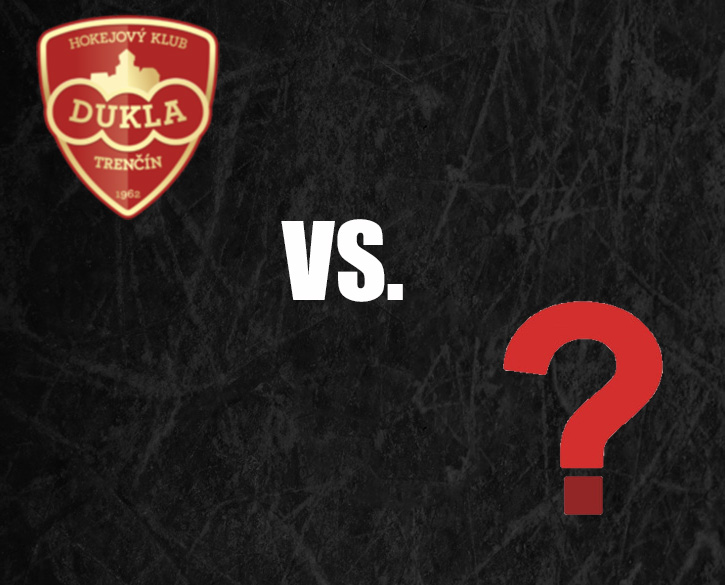
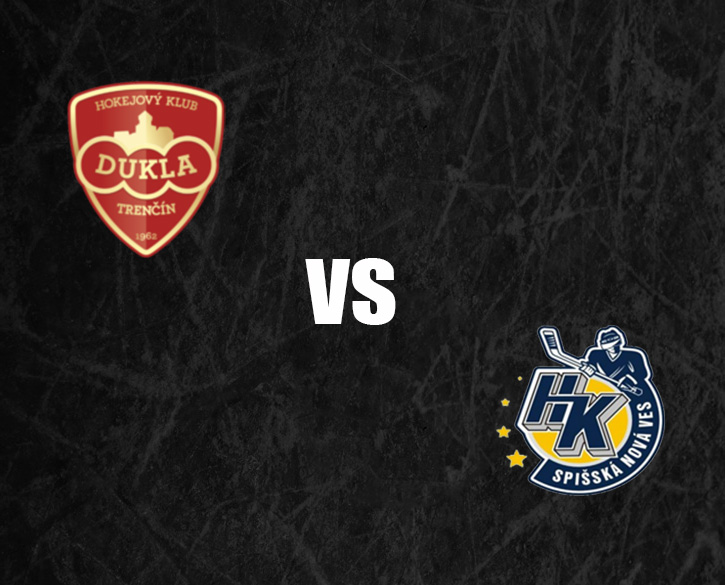
ss

Changed region(s): [[0.0303, 0.0, 0.3338, 0.4615], [0.6676, 0.4923, 0.9407, 0.8923], [0.3641, 0.3692, 0.5766, 0.5538]]

diff --git a/index.html b/index.html
@@ -54,8 +54,8 @@
  <div class="clanky-mobil" style="">
     <div  align="center"><img class="mobile-responsive-img" src="img/finaleplayoff.jpg" height="350" width="500"></div>
     <span class="news">News</span>
-       <p style="font-weight: bold; font-size:20px; padding-top: 10px; color: black; text-align: left; ">Poznáme prvého finalistu Play-off!</p>
-       <h4> Po napínavej sérií medzi <b>Duklou</b> a <b>Skalicou</b> tu máme prvého finalistu play-off! Za stavu série 1:1 privítal Trenčín na domácom ľade Skalicu, kde vyhral vysoko 8:2! čím si zaručil postup do finále play-off. Manažér Dukly je nesmierne spokojný ale zároveň aj prekvapený, že to dotiahli tak ďaleko. </h4>
+       <p style="font-weight: bold; font-size:20px; padding-top: 10px; color: black; text-align: left; ">Finále Play-off pozná svojích účastníkov</p>
+       <h4> Po napínavej sérií medzi <b>Duklou</b> a <b>Skalicou</b> sa Trenčínu podarilo zvíťaziť v rozhodujúcom zápase vysoko 8:2! a postúpili do finále. Svojho súpera spoznali o jedeň deň neskôr <b>Spišská</b> vyhrala svoj druhý zápas proti <b>Košiciam</b> a nedala im tak šancu sa dostať do finále a za stavu série 2:0 si zabujej o pohár <b>Vladimíra Dzurillu</b> s Trenčínom. Košice majú stále šancu o medjalové umiestnenie, o ktoré sa pobiju so Skalicou.</h4>
    </div> 
 
    <div class="clanky-mobil" style="">
